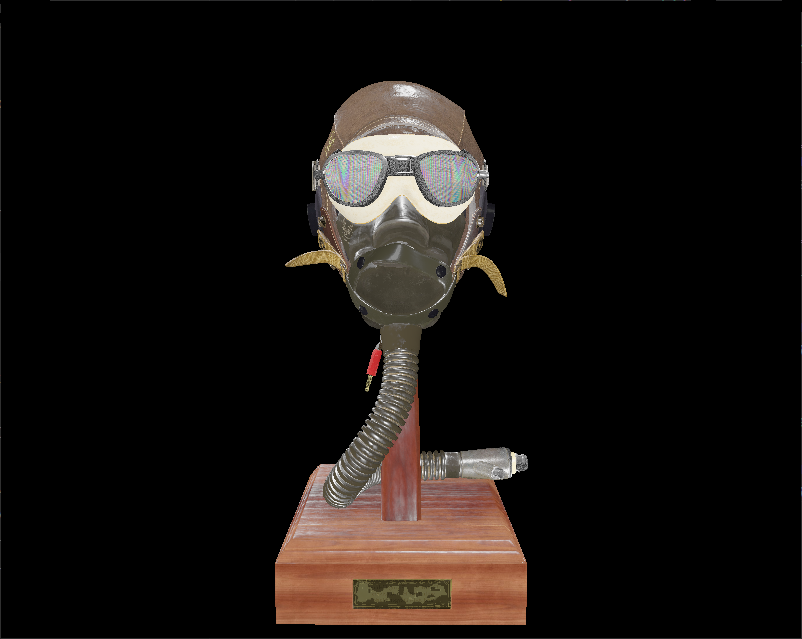
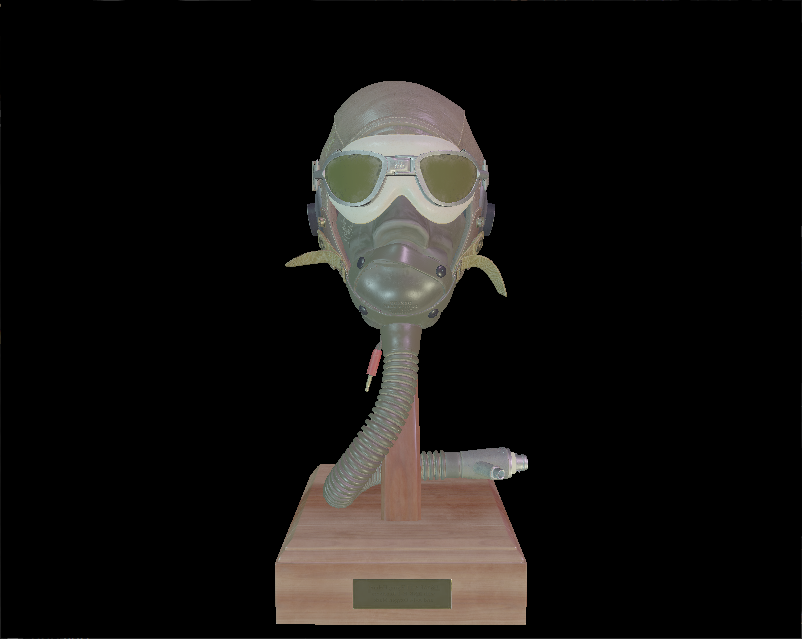
fix: correct image loading from gltf file

Changed region(s): [[0.3429, 0.1189, 0.6546, 0.9812], [0.9975, 0.0, 1.0, 0.9812], [0.6234, 0.446, 0.6546, 0.4757]]

diff --git a/src/resources/textures/texture.rs b/src/resources/textures/texture.rs
@@ -3,7 +3,7 @@ use std::sync::Arc;
 use ash::vk;
 use vk_sync::ImageBarrier;
 
-use crate::{Resolution, VulkanResult};
+use crate::{PixelFormat, Resolution, VulkanResult};
 use crate::core::{CommandPoolBuilder, GpuBufferBuilder, Image, ImageBuilder, ImageView, ImageViewBuilder};
 use crate::render_context::RenderContext;
 use crate::resources::{Create, Res, ResourceKey, Resources};
@@ -30,11 +30,21 @@ impl Create for Texture {
             resources: &Arc<Resources>,
             desc: Self::Desc<'_>,
         ) -> VulkanResult<Res<Self>> {
+
+        let format = match desc.format {
+            PixelFormat::Rgb8 => {
+                 vk::Format::R8G8B8A8_UNORM
+            },
+            PixelFormat::Rgba8 => {
+                vk::Format::R8G8B8A8_SRGB
+            },
+            _ => todo!()
+        };
         
         let image = ImageBuilder::new(&ctx.device)
             .extent(vk::Extent3D { width: desc.width, height: desc.height, depth: 1 })
             .array_layers(1)
-            .format(vk::Format::R8G8B8A8_SRGB)
+            .format(format)
             .image_type(vk::ImageType::TYPE_2D)
             .usage(vk::ImageUsageFlags::SAMPLED | vk::ImageUsageFlags::TRANSFER_DST)
             .build()?;
@@ -153,7 +163,7 @@ impl Create for Texture {
 
         let image_view = ImageViewBuilder::new(&ctx.device)
             .components(vk::ComponentMapping::default())
-            .format(vk::Format::R8G8B8A8_SRGB)
+            .format(format)
             .image(image.raw)
             .view_type(vk::ImageViewType::TYPE_2D)
             .subresource_range(
@@ -180,7 +190,7 @@ impl Create for Texture {
 pub struct TextureDesc<'a> {
     pub width: u32,
     pub height: u32,
-    pub format: TextureFormat,
+    pub format: PixelFormat,
     pub pixels: &'a [u8]
 }
 

diff --git a/examples/view/src/gltf_loader.rs b/examples/view/src/gltf_loader.rs
@@ -174,20 +174,20 @@ pub fn load_gltf<P: AsRef<Path>>(world: &WorldRenderer, path: P) -> VulkanResult
 
     for mut image in images {
         if image.format == Format::R8G8B8A8 {
-            let dynamic_image = image::DynamicImage::ImageRgb8(
-                image::RgbImage::from_raw(
+
+            let dynamic_image = image::DynamicImage::ImageRgba8(
+                image::RgbaImage::from_raw(
                     image.width,
                     image.height,
                     std::mem::take(&mut image.pixels),
-                )
-                .unwrap(),
+                ).unwrap()
             );
 
             let rgba8_image = dynamic_image.to_rgba8();
             let texture = world.create::<aluminium::Texture>(TextureDesc {
                 width: image.width,
                 height: image.height,
-                format: aluminium::TextureFormat::Color,
+                format: aluminium::PixelFormat::Rgba8,
                 pixels: &rgba8_image.into_raw()
             })?;
 
@@ -207,7 +207,7 @@ pub fn load_gltf<P: AsRef<Path>>(world: &WorldRenderer, path: P) -> VulkanResult
             let texture = world.create::<aluminium::Texture>(TextureDesc {
                 width: image.width,
                 height: image.height,
-                format: aluminium::TextureFormat::Color,
+                format: aluminium::PixelFormat::Rgb8,
                 pixels: &rgba8_image.into_raw()
             })?;
 

diff --git a/src/frame/graph/frame_graph.rs b/src/frame/graph/frame_graph.rs
@@ -133,27 +133,13 @@ impl FrameGraph {
                     }
 
                     pass.set = Some(set);
-
-                    {
-                        let binding2 = resources.storage_buffers.read();
-                        let buf2 = binding2.get(buffers.key).unwrap();
-                        println!("buffer raw handle: {:?}", buf2.buffer.raw);
-                        println!("buffer size: {:?}", buf2.buffer.allocation.as_ref().unwrap().size());
-
-                        // и mapped ptr
-                        let ptr = buf2.buffer.allocation.as_ref().unwrap()
-                            .mapped_ptr().unwrap().as_ptr() as *const f32;
-                        unsafe {
-                            println!("first f32 in buffer: {}", *ptr);
-                    }
-
-                }
+                
                 }
             }
        }
 
-       std::mem::forget(layot);
-       std::mem::forget(pool);
+    //    std::mem::forget(layot);
+    //    std::mem::forget(pool);
 
         Ok(())
     }

diff --git a/examples/view/src/view.rs b/examples/view/src/view.rs
@@ -115,7 +115,7 @@ impl View {
                                 ctx.set_viewport(Viewport::FullRes);
                                 for (index, (mesh, material)) in model.meshes.iter().enumerate() {
                                     ctx.push_constants([
-                                        0.0f32, 2.0 * time_sec.sin().abs(), 2.0 * time_sec.cos().abs(),
+                                        0.0, 15.0 * time_sec.sin().abs(), 15.0 * time_sec.cos().abs(),
                                         index as f32,
                                     ]);
                                     let textures = vec![

diff --git a/src/lib.rs b/src/lib.rs
@@ -12,7 +12,7 @@ pub use frame::*;
 pub use resources::{
     RasterPipeline, RasterPipelineDesc, ShaderType, TextureFormat, TransientTexture,
     VertexInput, Layout, Texture, TextureDesc, Get, GetMut, IndexBuffer, IndexBufferDesc,
-    Sampler, StorageBuffer, StorageBufferDesc, Res, VertexBuffer, VertexBufferDesc, Ref, RefMut
+    Sampler, StorageBuffer, StorageBufferDesc, Res, VertexBuffer, VertexBufferDesc, Ref, RefMut, PixelFormat
 };
 pub use world_renderer::WorldRenderer;
 /// Basic types

diff --git a/src/resources/textures/format.rs b/src/resources/textures/format.rs
@@ -1,4 +1,6 @@
 
-enum PixelFormat {
-    
+pub enum PixelFormat {
+    Rgb8,
+    Rgba8,
+    Rg8
 }

diff --git a/src/resources/textures/mod.rs b/src/resources/textures/mod.rs
@@ -1,5 +1,7 @@
 
 
 mod format;
+pub use format::*;
+
 mod texture;
 pub use texture::*;
